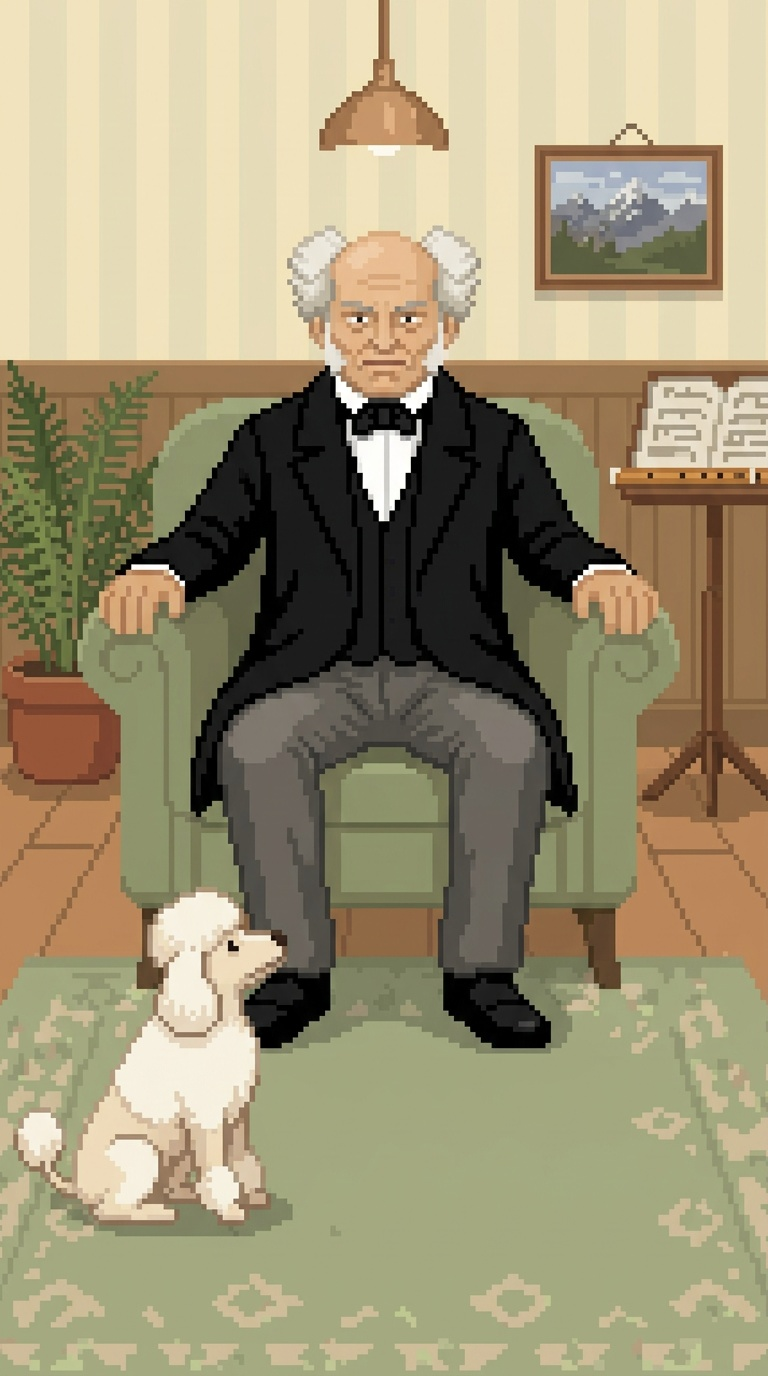
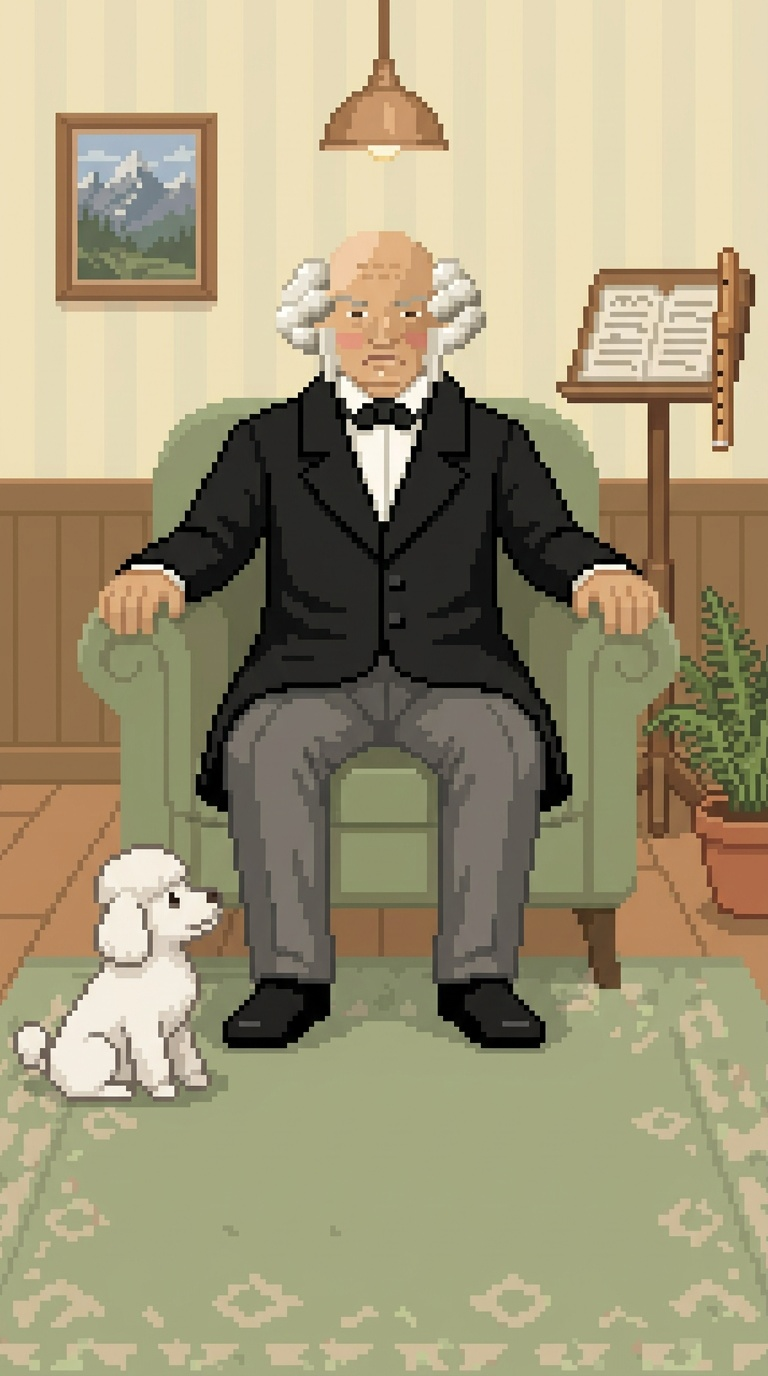
Schopenhauer's chat scene redrawn in the Socrates scene's style
The first generation drew him like his photograph (fine detail, realistic face). The second run puts the
Socrates scene's simple face, chunky pixels and proportions first; seated_scene.py takes the new face
anchors and flattens the speckle in his skin.

Claude-Session: https://claude.ai/code/session_01CkNb4fKBKqzoVDQabCd3oK

diff --git a/ui/web/tools/art/seated_scene.py b/ui/web/tools/art/seated_scene.py
@@ -2,7 +2,8 @@
 own hand-tuned script, socrates_scene.py; these four follow its layout and timing).
 
 Each scene is an ElevenLabs generation (Nano Banana 2) made from the Socrates scene and the philosopher's
-bust: sources/<id>_seated_gen.jpg. pixelate.py puts it on its own 143 x 256 grid with 48 colours. The
+bust: sources/<id>_seated_gen.jpg (Schopenhauer: the second run, whose prompt puts
+the Socrates scene's simple face and proportions first; the first run drew him like his photograph). pixelate.py puts it on its own 143 x 256 grid with 48 colours. The
 expressions are edits of the generated face, placed from a few anchors read off each face (eye row and
 pupils, brow row and spans, mouth row and span):
     half / closed   lid over the eyes / one lash line
@@ -37,7 +38,7 @@ FRAMES = ("open", "half", "closed", "talk1", "talk2")
 # brow row and spans, mouth row and span (x0, x1); 'dark_beard' mouths are drawn in lip red to show
 FACES = {
     "montaigne":    dict(ey=60, lp=(65, 66), rp=(75, 76), lw=(64, 67), rw=(74, 77), by=57, lb=(63, 67), rb=(73, 77), my=69, mx=(67, 72), dark_beard=True),
-    "schopenhauer": dict(ey=59, lp=(66, 66), rp=(75, 75), lw=(65, 67), rw=(74, 76), by=56, lb=(63, 66), rb=(75, 78), my=67, mx=(67, 74), dark_beard=False),
+    "schopenhauer": dict(ey=58, lp=(65, 66), rp=(75, 76), lw=(64, 67), rw=(74, 77), by=56, lb=(63, 66), rb=(74, 77), my=66, mx=(67, 73), dark_beard=False, clean=True),
     "seneca":       dict(ey=57, lp=(65, 66), rp=(75, 76), lw=(64, 67), rw=(74, 77), by=55, lb=(63, 67), rb=(73, 77), my=68, mx=(67, 72), dark_beard=True),
     "epictetus":    dict(ey=57, lp=(65, 66), rp=(74, 75), lw=(64, 67), rw=(73, 76), by=54, lb=(63, 66), rb=(73, 76), my=67, mx=(67, 73), dark_beard=False),
 }
@@ -59,6 +60,25 @@ def colours(p, f):
     return dict(skin=skin, shade=mix(skin, (90, 55, 30), .22), deep=mix(skin, (60, 35, 20), .4), light=mix(skin, (255, 240, 220), .3),
                 pupil=pupil, dark=mix(pupil, skin, .35), brow=brow, forehead=forehead,
                 white=(242, 234, 216), lip=(150, 74, 54), inside=(86, 50, 34))
+
+
+def clean_skin(p, f, C):
+    """Flatten the speckle in the face's skin, as Socrates' face is hand-flattened: each skin-coloured pixel
+    takes the commonest skin colour of its 3 x 3 neighbourhood (eyes, brows, mouth and hair are not skin)."""
+    y0, y1 = f["by"] - 6, f["my"] + 3
+    x0, x1 = f["lw"][0] - 4, f["rw"][1] + 4
+    skin = np.array(C["skin"], float)
+    is_skin = lambda c: np.abs(np.asarray(c, float) - skin).sum() < 70
+    src = p.copy()
+    for y in range(y0, y1 + 1):
+        for x in range(x0, x1 + 1):
+            if not is_skin(src[y, x]):
+                continue
+            near = [tuple(src[j, i]) for j in range(y - 1, y + 2) for i in range(x - 1, x + 2) if is_skin(src[j, i])]
+            best = max(set(near), key=near.count)
+            if near.count(best) >= 5:
+                p[y, x] = best
+    return p
 
 
 def put(p, x, y, c):
@@ -166,6 +186,8 @@ def build(pid):
     nw, nh, ox, oy = find_grid(src, [GRID[0]], [GRID[1]])
     base = np.asarray(quantize(sample(src, nw, nh, ox, oy), 48)).copy()
     C = colours(base, f)
+    if f.get("clean"):
+        base = clean_skin(base, f, C)
     x0, x1 = min(f["lw"][0], f["lb"][0]) - 3, max(f["rw"][1], f["rb"][1]) + 3
     y0, y1 = f["by"] - 3, f["my"] + 3
     P = (x0, y0, x1 - x0 + 1, y1 - y0 + 1)
